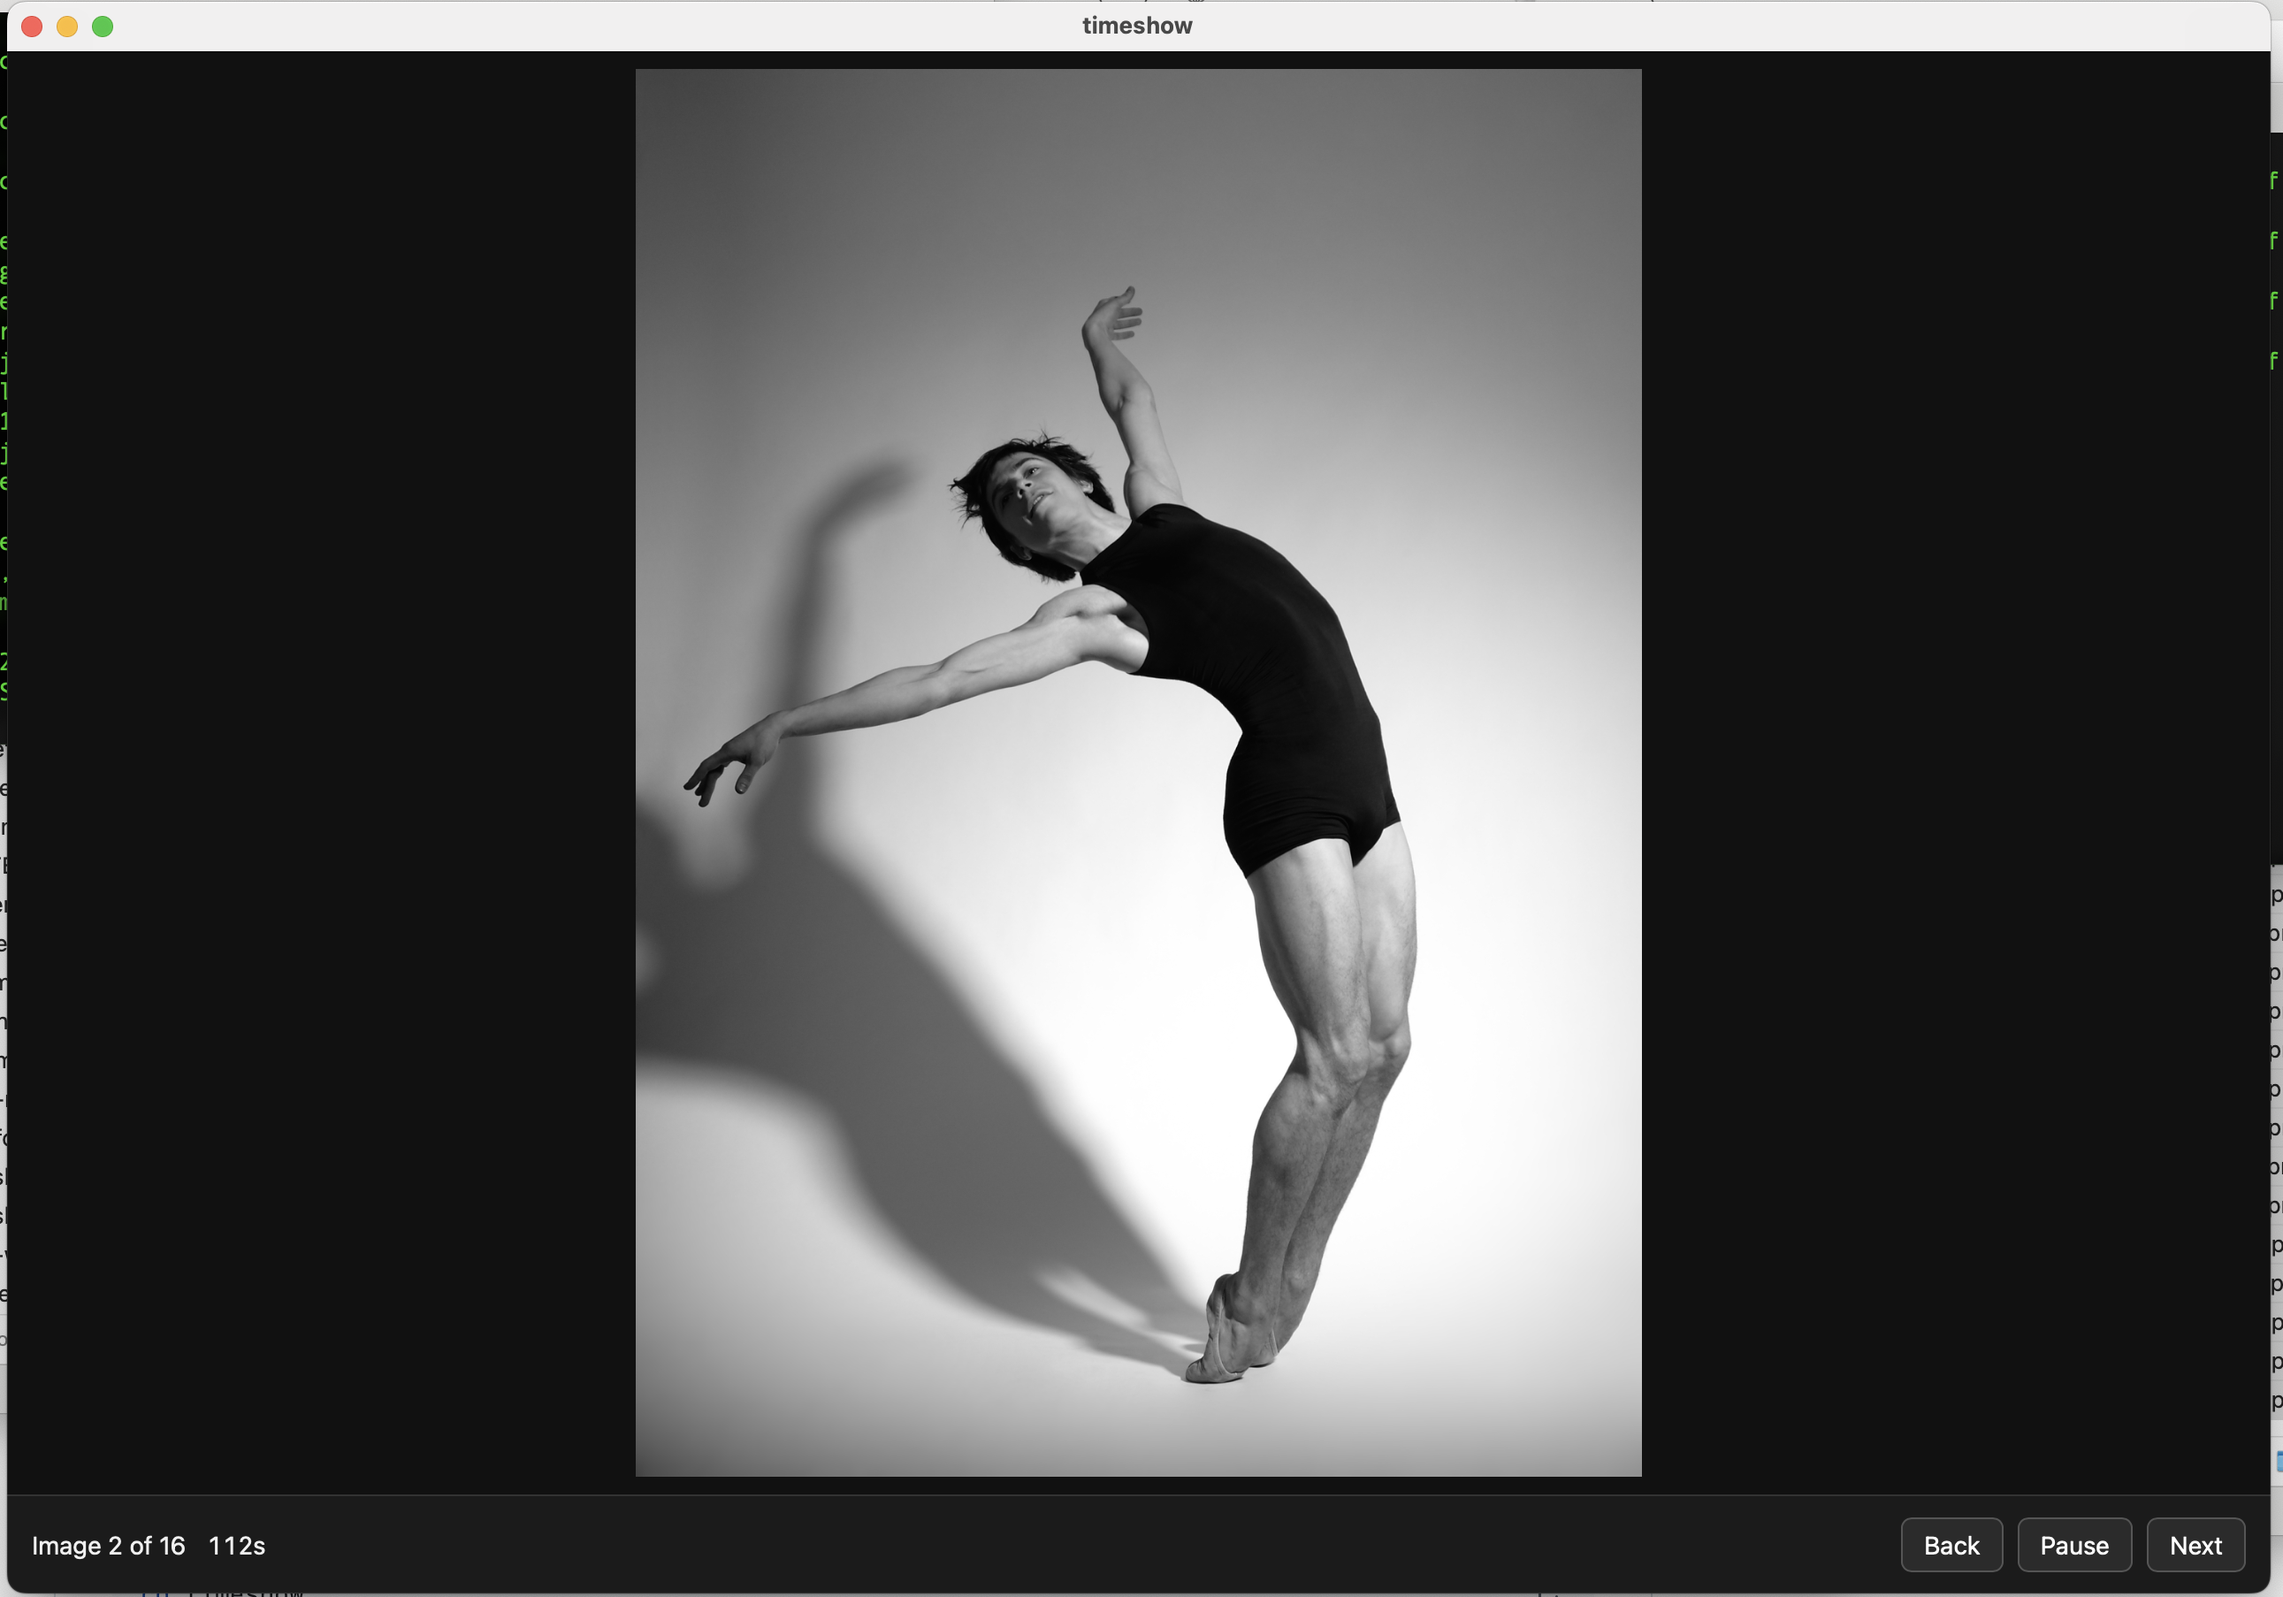
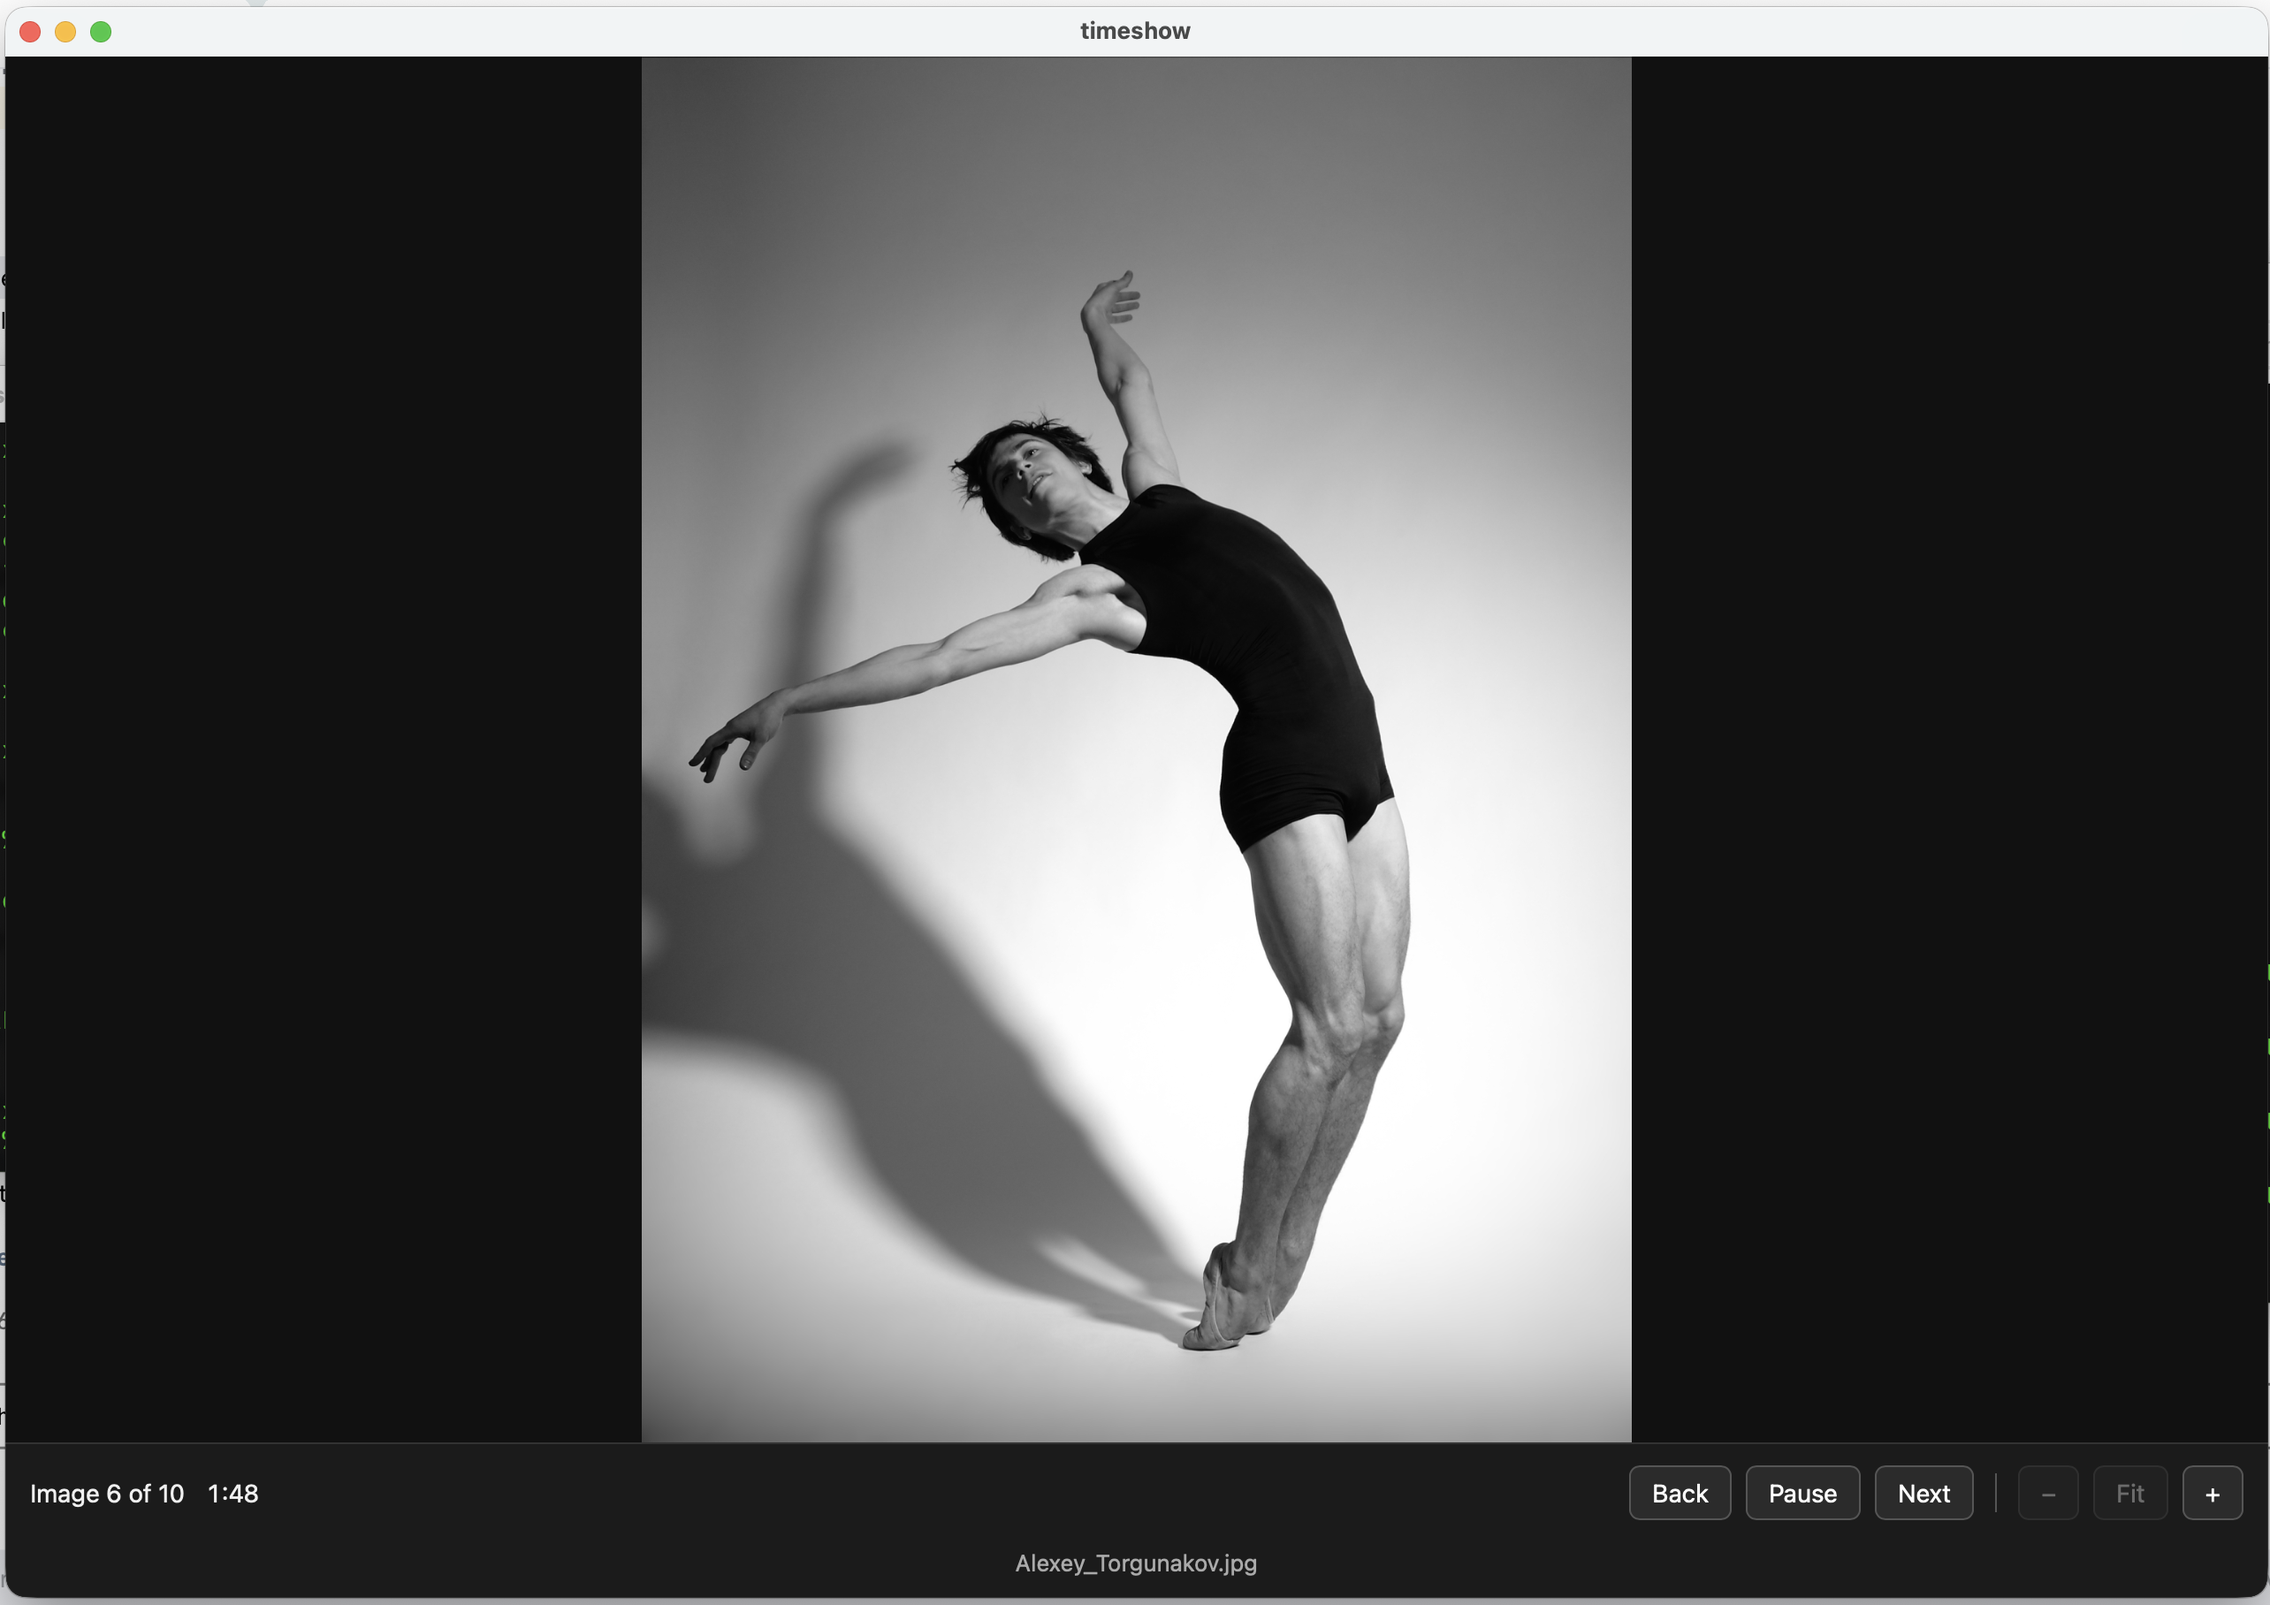
Add image zoom controls to slideshow window.

Changed region(s): [[0.0, 0.155, 1.0, 1.0], [0.0, 0.0, 1.0, 0.2481], [0.5607, 0.3411, 0.5919, 0.4031]]

diff --git a/timeshow/ui_webview.py b/timeshow/ui_webview.py
@@ -537,19 +537,27 @@ def run_slideshow_window(image_urls, time_s=None, mode=None):
     }
 
     .stage {
+      position: relative;
+      overflow: hidden;
+      min-height: 0;
+    }
+
+    #zoomWrapper {
+      position: absolute;
+      inset: 0;
       display: flex;
       align-items: center;
       justify-content: center;
-      min-height: 0;
-      padding: 10px;
+      transform-origin: center center;
     }
 
-    .stage img {
-      width: 100%;
-      height: 100%;
+    #slideImage {
+      max-width: 100%;
+      max-height: 100%;
       object-fit: contain;
       user-select: none;
       -webkit-user-drag: none;
+      pointer-events: none;
     }
 
     .controls {
@@ -606,6 +614,24 @@ def run_slideshow_window(image_urls, time_s=None, mode=None):
       background: #3a3a3a;
     }
 
+    button:disabled {
+      opacity: 0.35;
+      cursor: default;
+    }
+
+    button:disabled:hover {
+      background: #2b2b2b;
+    }
+
+    .btn-divider {
+      width: 1px;
+      height: 22px;
+      background: #555;
+      margin: 0 4px;
+      align-self: center;
+      flex-shrink: 0;
+    }
+
     .export-area {
       display: flex;
       align-items: center;
@@ -621,7 +647,9 @@ def run_slideshow_window(image_urls, time_s=None, mode=None):
 <body>
   <div class=\"app\">
     <div class=\"stage\">
-      <img id=\"slideImage\" alt=\"Current reference image\" />
+      <div id=\"zoomWrapper\">
+        <img id=\"slideImage\" alt=\"Current reference image\" />
+      </div>
     </div>
     <div class=\"controls\">
       <div class=\"meta\">
@@ -632,6 +660,10 @@ def run_slideshow_window(image_urls, time_s=None, mode=None):
         <button id=\"backBtn\" type=\"button\">Back</button>
         <button id=\"pauseBtn\" type=\"button\">Pause</button>
         <button id=\"nextBtn\" type=\"button\">Next</button>
+        <span class=\"btn-divider\"></span>
+        <button id=\"zoomOutBtn\" type=\"button\" title=\"Zoom out (Ctrl/Cmd -)\">&#x2212;</button>
+        <button id=\"zoomFitBtn\" type=\"button\" title=\"Zoom to fit (Ctrl/Cmd 0)\">Fit</button>
+        <button id=\"zoomInBtn\" type=\"button\" title=\"Zoom in (Ctrl/Cmd +)\">+</button>
       </div>
       <div class=\"export-area\" id=\"exportArea\" style=\"display:none\">
         <button id=\"exportBtn\" type=\"button\">Export set\u2026</button>
@@ -658,6 +690,90 @@ def run_slideshow_window(image_urls, time_s=None, mode=None):
     const nextBtn = document.getElementById('nextBtn');
 
     let renderToken = 0;
+
+    const isMac = /Mac/i.test(navigator.platform);
+
+    const zoomWrapper = document.getElementById('zoomWrapper');
+    const zoomInBtn = document.getElementById('zoomInBtn');
+    const zoomOutBtn = document.getElementById('zoomOutBtn');
+    const zoomFitBtn = document.getElementById('zoomFitBtn');
+
+    const ZOOM_STEP = 1.5;
+    const ZOOM_MIN = 1.0;
+    const ZOOM_MAX = 8.0;
+
+    let zoomLevel = 1.0;
+    let panX = 0;
+    let panY = 0;
+    let isDragging = false;
+    let dragStartX = 0;
+    let dragStartY = 0;
+
+    function clampPan() {
+      const maxX = zoomWrapper.clientWidth * (zoomLevel - 1) / 2;
+      const maxY = zoomWrapper.clientHeight * (zoomLevel - 1) / 2;
+      panX = Math.max(-maxX, Math.min(maxX, panX));
+      panY = Math.max(-maxY, Math.min(maxY, panY));
+    }
+
+    function applyZoom() {
+      zoomWrapper.style.transform = `translate(${panX}px, ${panY}px) scale(${zoomLevel})`;
+      zoomWrapper.style.cursor = zoomLevel > 1 ? 'grab' : 'default';
+      zoomOutBtn.disabled = zoomLevel <= ZOOM_MIN;
+      zoomInBtn.disabled = zoomLevel >= ZOOM_MAX;
+      zoomFitBtn.disabled = zoomLevel <= ZOOM_MIN;
+    }
+
+    function zoomIn() {
+      zoomLevel = Math.min(zoomLevel * ZOOM_STEP, ZOOM_MAX);
+      clampPan();
+      applyZoom();
+    }
+
+    function zoomOut() {
+      zoomLevel = Math.max(zoomLevel / ZOOM_STEP, ZOOM_MIN);
+      if (zoomLevel <= ZOOM_MIN) {
+        zoomLevel = ZOOM_MIN;
+        panX = 0;
+        panY = 0;
+      }
+      applyZoom();
+    }
+
+    function zoomFit() {
+      zoomLevel = ZOOM_MIN;
+      panX = 0;
+      panY = 0;
+      applyZoom();
+    }
+
+    zoomInBtn.addEventListener('click', zoomIn);
+    zoomOutBtn.addEventListener('click', zoomOut);
+    zoomFitBtn.addEventListener('click', zoomFit);
+
+    zoomWrapper.addEventListener('mousedown', (event) => {
+      if (zoomLevel <= ZOOM_MIN) return;
+      isDragging = true;
+      dragStartX = event.clientX - panX;
+      dragStartY = event.clientY - panY;
+      zoomWrapper.style.cursor = 'grabbing';
+      event.preventDefault();
+    });
+
+    document.addEventListener('mousemove', (event) => {
+      if (!isDragging) return;
+      panX = event.clientX - dragStartX;
+      panY = event.clientY - dragStartY;
+      clampPan();
+      zoomWrapper.style.transform = `translate(${panX}px, ${panY}px) scale(${zoomLevel})`;
+      zoomWrapper.style.cursor = 'grabbing';
+    });
+
+    document.addEventListener('mouseup', () => {
+      if (!isDragging) return;
+      isDragging = false;
+      zoomWrapper.style.cursor = zoomLevel > ZOOM_MIN ? 'grab' : 'default';
+    });
 
     const filenameEl = document.getElementById('filename');
     const exportArea = document.getElementById('exportArea');
@@ -740,6 +856,10 @@ def run_slideshow_window(image_urls, time_s=None, mode=None):
         return;
       }
       index = Math.max(0, Math.min(newIndex, IMAGE_URLS.length - 1));
+      zoomLevel = ZOOM_MIN;
+      panX = 0;
+      panY = 0;
+      applyZoom();
       resetTimer();
       updateView();
     }
@@ -777,7 +897,17 @@ def run_slideshow_window(image_urls, time_s=None, mode=None):
     });
 
     document.addEventListener('keydown', (event) => {
-      if (event.key === ' ') {
+      const mod = isMac ? event.metaKey : event.ctrlKey;
+      if (mod && (event.key === '=' || event.key === '+')) {
+        event.preventDefault();
+        zoomIn();
+      } else if (mod && event.key === '-') {
+        event.preventDefault();
+        zoomOut();
+      } else if (mod && event.key === '0') {
+        event.preventDefault();
+        zoomFit();
+      } else if (event.key === ' ') {
         event.preventDefault();
         paused = !paused;
         updateView();
@@ -808,6 +938,7 @@ def run_slideshow_window(image_urls, time_s=None, mode=None):
       updateView();
     });
 
+    applyZoom();
     updateView();
   </script>
 </body>

diff --git a/Readme.md b/Readme.md
@@ -2,7 +2,7 @@
 
 Simple timed slideshow tool for artist reference practice.
 
-**Version:** 1.1\
+**Version:** 1.2\
 **Author:** C. A. Corbell\
 **License:** MIT\
 **Source:** https://github.com/ccorbell/timeshow
@@ -63,8 +63,14 @@ Optional args:
 
 - `Back` and `Next` move between images
 - `Pause` / `Resume` toggles countdown
-- Keyboard: `Space` pause/resume, `Left` previous, `Right` next
+- `−`, `Fit`, `+` zoom out, zoom to fit, and zoom in; click and drag to pan while zoomed
 - `Export set` (shown in directory modes only) - export the current image set to a text file which can be used to repeat the slideshow
+
+Keyboard shortcuts:
+- `Space` pause/resume
+- `Left` / `Right` previous/next image
+- `Cmd`+`+` / `Cmd`+`-` zoom in/out (macOS); `Ctrl`+`+` / `Ctrl`+`-` (Windows/Linux)
+- `Cmd`+`0` / `Ctrl`+`0` zoom to fit
 
 ## Screenshots
 
